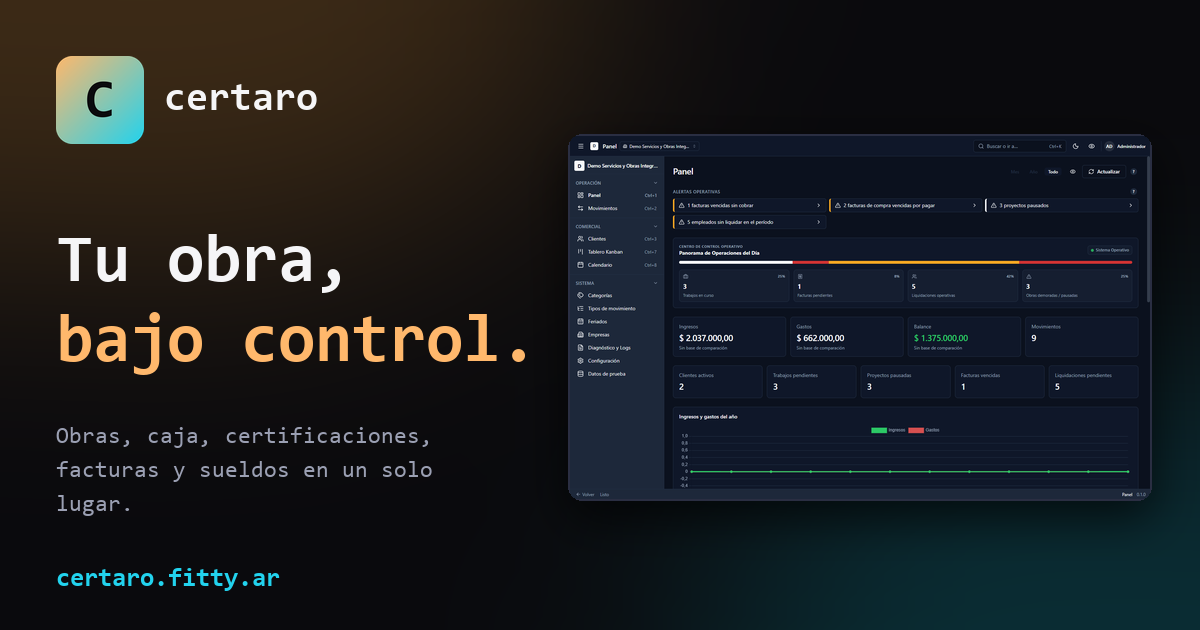
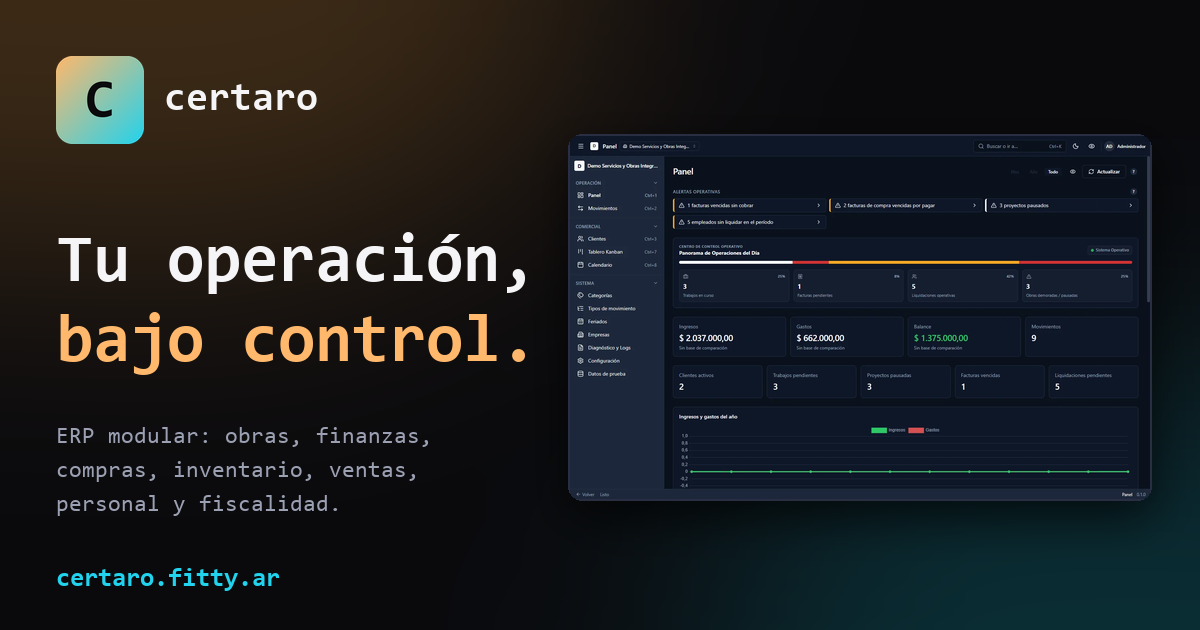
feat(site): describe Certaro as a modular ERP and as proprietary software
Rework the hero, page titles, meta descriptions, footer tagline and the
social card after Certaro's README: a modular ERP for projects,
finance, purchasing, inventory, point of sale, payroll and fiscal
workflows, on desktop or server, instead of "for electrical
contractors". llms.txt no longer claims the Business Source License,
the free plan reads "Gratuita/Free of charge" rather than "Libre", and
the footer shows the release version.

Hide the domain suffix of the top bar logo on phones so the menu button
no longer overflows a 375px viewport.

diff --git a/js/translations.js b/js/translations.js
@@ -33,8 +33,8 @@ const translations = {
     "install.x3.desc": "Si tenés datos en la ubicación anterior, se mueven a la carpeta nueva en el primer inicio; si no se puede mover, se copian y no se borra nada.",
     "install.cta": "Pedir el instalador",
     "install.cta.note": "Certaro es un producto comercial: escribinos y te enviamos el instalador y la licencia.",
-    "meta.title": "Certaro — Tu obra, bajo control",
-    "meta.description": "Gestión completa para contratistas eléctricos: obras, trabajos, caja, certificaciones UOCRA, facturas, liquidaciones y asistencia. Control total y tus datos siempre con vos.",
+    "meta.title": "Certaro — ERP modular: tu operación, bajo control",
+    "meta.description": "ERP modular para obras, finanzas, compras, inventario, punto de venta, personal y fiscalidad. Escritorio con SQLite o servidor con PostgreSQL, en español e inglés.",
 
     "skip.content": "Saltar al contenido principal",
 
@@ -47,9 +47,9 @@ const translations = {
     "nav.menu": "Menú",
     "nav.close": "Cerrar",
 
-    "hero.badge": "Para contratistas eléctricos",
-    "hero.title": "Tu obra,<br>bajo control.",
-    "hero.subtitle": "Movimientos, obras, certificaciones, facturas y sueldos — todo en un solo lugar. Control operativo, financiero y modular en constante evolución.",
+    "hero.badge": "ERP modular · Escritorio y servidor",
+    "hero.title": "Tu operación,<br>bajo control.",
+    "hero.subtitle": "Obras, finanzas, compras, inventario, punto de venta, personal y fiscalidad en un solo ERP. Combiná los módulos que tu negocio necesita, en escritorio o en servidor.",
     "hero.cta": "Solicitar demo",
     "hero.secondary": "Ver cómo funciona",
 
@@ -210,7 +210,7 @@ const translations = {
     "pricing.feat.support": "Nivel de soporte técnico",
     "pricing.feat.whitelabel": "Personalización White-Label",
 
-    "val.personal_use": "Personal / Libre",
+    "val.personal_use": "Personal / Gratuita",
     "val.commercial": "Comercial",
     "val.desktop_sqlite": "Escritorio (SQLite)",
     "val.dual_mode": "Escritorio o Red Local",
@@ -347,7 +347,7 @@ const translations = {
     "pricing.custom.desc": "Certaro fue concebido bajo arquitectura modular y terminología adaptable. Si tu empresa tiene flujos atípicos, certificaciones especiales o integraciones propias, armamos un paquete personalizado para tu caso de uso.",
     "pricing.custom.cta": "Consultar por un paquete a medida",
 
-    "footer.tagline": "Gestión operativa para contratistas eléctricos. Hecho en Buenos Aires por FittyAr.",
+    "footer.tagline": "ERP modular para gestionar tu empresa. Hecho en Buenos Aires por FittyAr.",
     "footer.nav": "Navegación",
     "footer.modules": "Módulos",
     "footer.mod.obras": "Obras y Trabajos",
@@ -356,11 +356,11 @@ const translations = {
     "footer.mod.certificados": "Certificados UOCRA",
     "footer.mod.asistencia": "Asistencia y Sueldos",
     "footer.contact": "Contacto",
-    "footer.version": "v0.1 · JetBrains Mono · Amber phosphor",
+    "footer.version": "JetBrains Mono · Amber phosphor",
     "footer.top": "Volver arriba ↑",
 
     "changelog.metaTitle": "Novedades — Certaro",
-    "changelog.metaDesc": "Historial de versiones y nuevas funciones de Certaro para contratistas eléctricos.",
+    "changelog.metaDesc": "Historial de versiones y nuevas funciones de Certaro, el ERP modular de FittyAr.",
     "changelog.title": "Novedades de Certaro",
     "changelog.subtitle": "Cada mejora es para que tu obra funcione mejor.",
     "changelog.latest": "LO ÚLTIMO",
@@ -410,8 +410,8 @@ const translations = {
     "install.x3.desc": "Data left in the previous location is moved to the new folder on first launch; if it cannot be moved it is copied and nothing is deleted.",
     "install.cta": "Request the installer",
     "install.cta.note": "Certaro is a commercial product: write to us and we will send you the installer and license.",
-    "meta.title": "Certaro — Your site, under control",
-    "meta.description": "Complete management for electrical contractors: sites, jobs, cash flow, UOCRA certificates, invoices, payroll and attendance. Full control, your data stays with you.",
+    "meta.title": "Certaro — Modular ERP: your business, under control",
+    "meta.description": "Modular ERP for projects, finance, purchasing, inventory, point of sale, payroll and fiscal workflows. Desktop with SQLite or server with PostgreSQL, in Spanish and English.",
 
     "skip.content": "Skip to main content",
 
@@ -424,9 +424,9 @@ const translations = {
     "nav.menu": "Menu",
     "nav.close": "Close",
 
-    "hero.badge": "For electrical contractors",
-    "hero.title": "Your site,<br>under control.",
-    "hero.subtitle": "Cash flow, sites, certificates, invoices and payroll — all in one place. Operational, financial and modular management in continuous evolution.",
+    "hero.badge": "Modular ERP · Desktop and server",
+    "hero.title": "Your business,<br>under control.",
+    "hero.subtitle": "Projects, finance, purchasing, inventory, point of sale, payroll and fiscal workflows in one ERP. Combine the modules your business needs, on desktop or on a server.",
     "hero.cta": "Request demo",
     "hero.secondary": "See how it works",
 
@@ -587,7 +587,7 @@ const translations = {
     "pricing.feat.support": "Technical support level",
     "pricing.feat.whitelabel": "White-Label customization",
 
-    "val.personal_use": "Personal / Free",
+    "val.personal_use": "Personal / Free of charge",
     "val.commercial": "Commercial",
     "val.desktop_sqlite": "Desktop (SQLite)",
     "val.dual_mode": "Desktop or Local Network",
@@ -724,7 +724,7 @@ const translations = {
     "pricing.custom.desc": "Certaro was built with a modular architecture and configurable domain terminology. If your company operates unique workflows, specialized certifications, or custom integrations, we tailor a custom package for your use case.",
     "pricing.custom.cta": "Inquire about a custom solution",
 
-    "footer.tagline": "Operations for electrical contractors. Made in Buenos Aires by FittyAr.",
+    "footer.tagline": "Modular ERP to run your business. Made in Buenos Aires by FittyAr.",
     "footer.nav": "Navigation",
     "footer.modules": "Modules",
     "footer.mod.obras": "Sites & Jobs",
@@ -733,11 +733,11 @@ const translations = {
     "footer.mod.certificados": "UOCRA Certificates",
     "footer.mod.asistencia": "Attendance & Payroll",
     "footer.contact": "Contact",
-    "footer.version": "v0.1 · JetBrains Mono · Amber phosphor",
+    "footer.version": "JetBrains Mono · Amber phosphor",
     "footer.top": "Back to top ↑",
 
     "changelog.metaTitle": "What's new — Certaro",
-    "changelog.metaDesc": "Release history and new features in Certaro for electrical contractors.",
+    "changelog.metaDesc": "Release history and new features of Certaro, FittyAr's modular ERP.",
     "changelog.title": "What's new in Certaro",
     "changelog.subtitle": "Every improvement is to make your site run better.",
     "changelog.latest": "LATEST",

diff --git a/index.html b/index.html
@@ -3,12 +3,12 @@
 <head>
 <meta charset="utf-8">
 <meta name="viewport" content="width=device-width, initial-scale=1">
-<title>Certaro — Tu obra, bajo control</title>
-<meta name="description" content="Gestión completa para contratistas eléctricos: obras, trabajos, caja, certificaciones UOCRA, facturas, liquidaciones y asistencia. Control total y datos siempre con vos.">
+<title>Certaro — ERP modular: tu operación, bajo control</title>
+<meta name="description" content="ERP modular para obras, finanzas, compras, inventario, punto de venta, personal y fiscalidad. Escritorio con SQLite o servidor con PostgreSQL, en español e inglés.">
 <meta name="color-scheme" content="dark">
 <meta name="theme-color" content="#0a0a0d">
 <meta name="keywords" content="Certaro, ERP, gestión de obras, contratistas, certificaciones, facturación, liquidación de sueldos, asistencia, Tauri, Rust, Vue, Windows, FittyAr">
-<meta property="og:title" content="Certaro — Tu obra, bajo control">
+<meta property="og:title" content="Certaro — ERP modular: tu operación, bajo control">
 <meta property="og:description" content="Todo en un solo lugar. Control operativo y financiero para tu empresa.">
 <meta property="og:type" content="website">
 <meta property="og:url" content="https://certaro.fitty.ar/">
@@ -17,7 +17,7 @@
 <meta property="og:image:width" content="1200">
 <meta property="og:image:height" content="630">
 <meta name="twitter:card" content="summary_large_image">
-<meta name="twitter:title" content="Certaro — Tu obra, bajo control">
+<meta name="twitter:title" content="Certaro — ERP modular: tu operación, bajo control">
 <meta name="twitter:description" content="Todo en un solo lugar. Control operativo y financiero para tu empresa.">
 <meta name="twitter:image" content="https://certaro.fitty.ar/assets/social.png">
 <link rel="icon" href="assets/certaro-logo.svg" type="image/svg+xml">
@@ -32,6 +32,7 @@
   "@type": "SoftwareApplication",
   "name": "Certaro",
   "applicationCategory": "BusinessApplication",
+  "softwareVersion": "2.0.0",
   "operatingSystem": "Windows, Linux, macOS",
   "description": "Modular ERP for projects, finance, purchasing, inventory, point of sale, payroll and fiscal workflows. Desktop (Tauri) and web server editions.",
   "url": "https://certaro.fitty.ar/",
@@ -100,9 +101,9 @@
 <!-- HERO -->
 <section id="hero" class="container hero reveal">
   <div class="hero-text">
-    <span class="eyebrow" data-i18n="hero.badge">Para contratistas eléctricos</span>
-    <h1 data-i18n="hero.title">Tu obra,<br>bajo control.</h1>
-    <p class="hero-subtitle" data-i18n="hero.subtitle">Movimientos, obras, certificaciones, facturas y sueldos — todo en un solo lugar. Control operativo, financiero y modular en constante evolución.</p>
+    <span class="eyebrow" data-i18n="hero.badge">ERP modular · Escritorio y servidor</span>
+    <h1 data-i18n="hero.title">Tu operación,<br>bajo control.</h1>
+    <p class="hero-subtitle" data-i18n="hero.subtitle">Obras, finanzas, compras, inventario, punto de venta, personal y fiscalidad en un solo ERP. Combiná los módulos que tu negocio necesita, en escritorio o en servidor.</p>
     <div class="hero-actions">
       <a class="btn btn-primary" href="#contact" data-i18n="hero.cta">Solicitar demo</a>
       <a class="btn btn-ghost" href="#how" data-i18n="hero.secondary">Ver cómo funciona</a>
@@ -728,7 +729,7 @@
           </tr>
           <tr>
             <td data-i18n="pricing.feat.license">Tipo de licencia</td>
-            <td><span class="cell-val" data-i18n="val.personal_use">Personal / Libre</span></td>
+            <td><span class="cell-val" data-i18n="val.personal_use">Personal / Gratuita</span></td>
             <td><span class="cell-val" data-i18n="val.commercial">Comercial</span></td>
             <td class="featured-col"><span class="cell-val" data-i18n="val.commercial">Comercial</span></td>
             <td><span class="cell-val" data-i18n="val.commercial">Comercial</span></td>
@@ -995,7 +996,7 @@
     <div class="footer-grid">
       <div class="footer-brand">
         <div class="logo"><span class="logo-mark">C</span> certaro<span class="tld">.fitty.ar</span></div>
-        <p data-i18n="footer.tagline">Gestión operativa para contratistas eléctricos. Hecho en Buenos Aires por FittyAr.</p>
+        <p data-i18n="footer.tagline">ERP modular para gestionar tu empresa. Hecho en Buenos Aires por FittyAr.</p>
       </div>
       <div class="footer-col">
         <h4 data-i18n="footer.nav">Navegación</h4>
@@ -1022,7 +1023,7 @@
       </div>
     </div>
     <div class="footer-bottom">
-      <span><span class="status-dot"></span> <span data-i18n="footer.version">v0.1 · JetBrains Mono · Amber phosphor</span></span>
+      <span><span class="status-dot"></span> <a href="changelog.html" data-app-version>v2.0.0</a> · <span data-i18n="footer.version">JetBrains Mono · Amber phosphor</span></span>
       <span>© 2026 FittyAr · <a href="#hero" data-i18n="footer.top">Volver arriba ↑</a></span>
     </div>
   </div>
@@ -1038,6 +1039,7 @@
 </div>
 
 <script src="js/translations.js"></script>
+<script src="js/releases.js"></script>
 <script>
 const galleryImages = [
   "assets/screens/01-panel.webp",

diff --git a/css/base.css b/css/base.css
@@ -516,6 +516,7 @@ section[id], div[id] {
   .section { padding: 3.75rem 0; }
 }
 @media (max-width: 520px) {
+  .topbar .logo span.tld { display: none; } /* keeps the menu button inside a 375px viewport */
   .footer-grid { grid-template-columns: 1fr; }
   .footer-bottom { flex-direction: column; align-items: flex-start; }
 }
